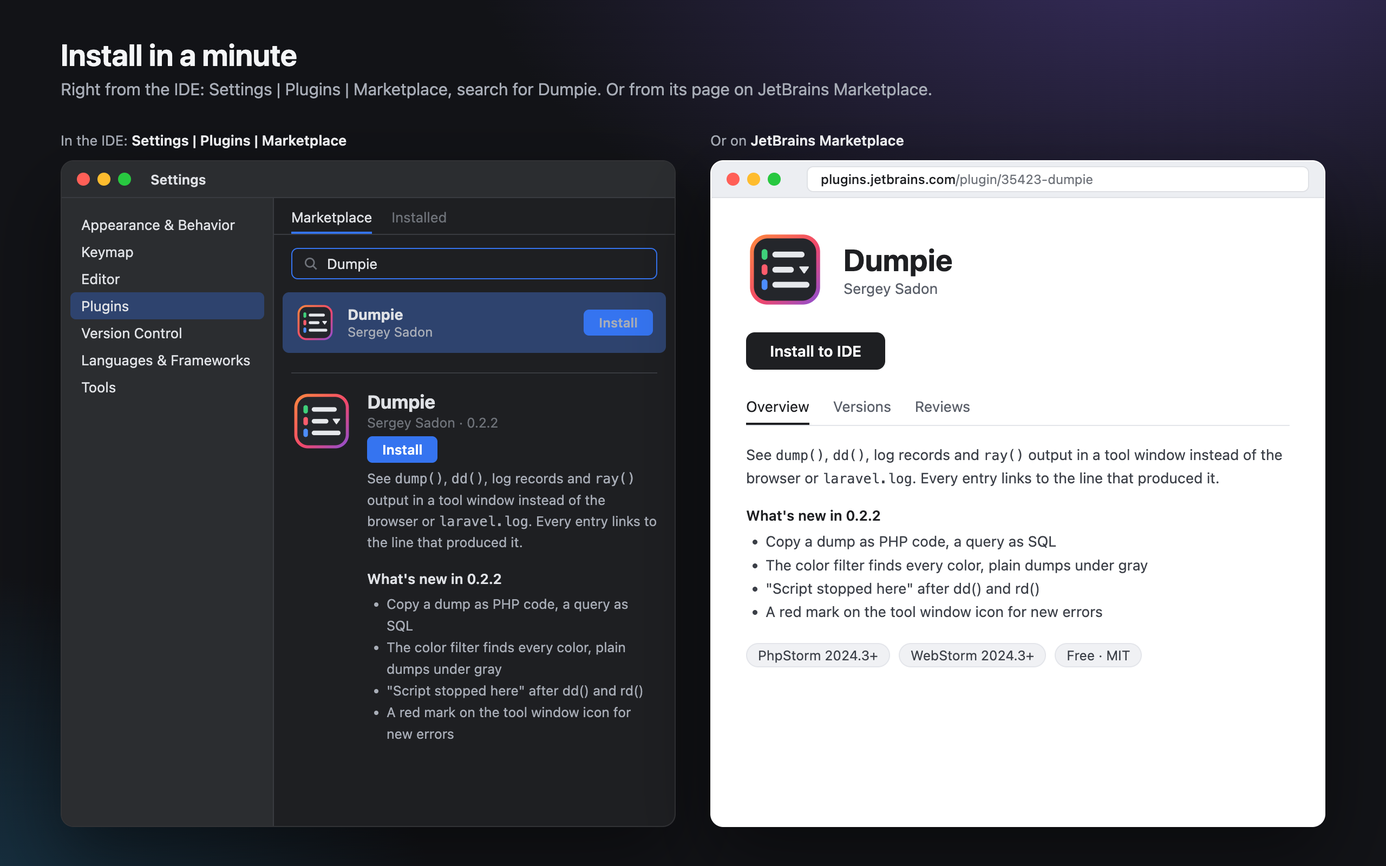
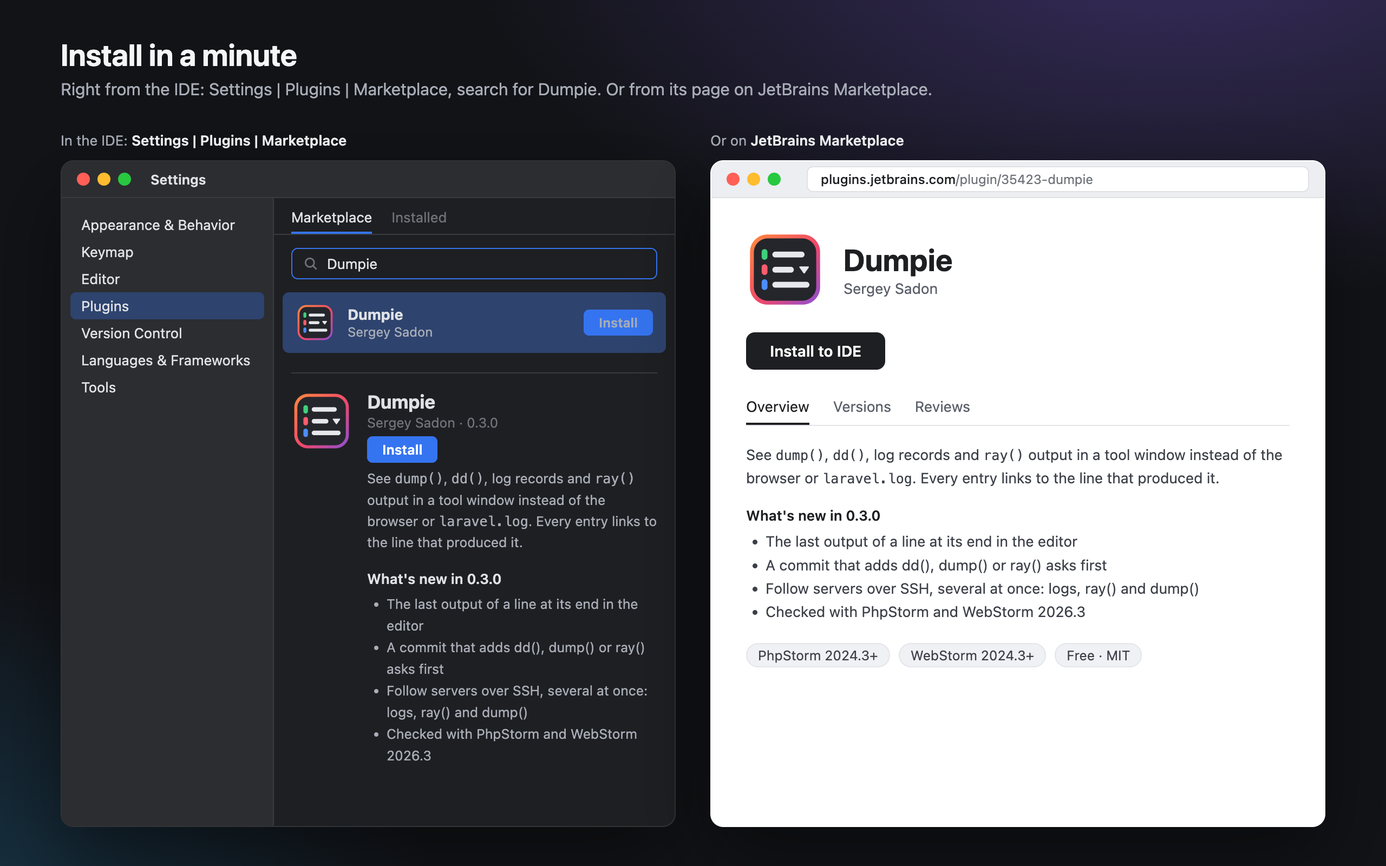
Docs for 0.3.0: servers over SSH, commit check, inline values
- New screenshots: the commit check and the server menu with its settings
- Inline values on the editor scenes, 0.3.0 news on the install scene
- README: following servers, commit check, settings reference for Servers (SSH),
  troubleshooting for SSH connections
- Site (English and Russian): server and commit check sections, new settings cards

Changed region(s): [[0.2812, 0.6875, 0.4688, 0.875], [0.5625, 0.5938, 0.875, 0.7188]]

diff --git a/docs/ru/index.html b/docs/ru/index.html
@@ -36,7 +36,7 @@
         <span class="badge">Бесплатно и open source · PhpStorm и WebStorm 2024.3+</span>
         <h1>Отладочный вывод PHP прямо в PhpStorm</h1>
         <p class="lead"><code>dump()</code>, <code>dd()</code>, записи логов, SQL-запросы, исключения и вызовы <code>ray()</code> в окне рядом
-            с кодом. У каждой записи есть ссылка на строку, которая её отправила.</p>
+            с кодом. У каждой записи есть ссылка на строку, которая её отправила. С вашей машины или с сервера по SSH.</p>
         <div class="cta">
             <a class="btn primary" href="https://plugins.jetbrains.com/plugin/35423-dumpie">Установить из JetBrains Marketplace</a>
             <a class="btn" href="https://github.com/sadonsergey/dumpie">Открыть на GitHub</a>
@@ -83,10 +83,32 @@ ray()-&gt;pause();</pre>
         <div class="feature">
             <div class="text">
                 <h3>От кода к его выводу</h3>
-                <p>Строки, которые что-то вывели, получают иконку в гаттере редактора. Наведите на неё, чтобы увидеть, что именно, или кликните,
-                    чтобы перейти к записи. И в обратную сторону: каждая запись ссылается на свой файл и строку, пути из Docker и Sail тоже.</p>
+                <p>Последнее значение, которое отправила строка, видно серым прямо в её конце, как значения в отладчике. Иконка в гаттере
+                    отмечает строку: наведите на неё, чтобы увидеть всё, что она отправила, или кликните, чтобы перейти к записи. И в обратную
+                    сторону: каждая запись ссылается на свой файл и строку, пути из Docker и Sail тоже.</p>
             </div>
-            <div class="media"><img src="../marketplace/06-gutter.png" alt="Иконка в гаттере с подсказкой и найденная запись" loading="lazy" width="2560" height="1600"></div>
+            <div class="media"><img src="../marketplace/06-gutter.png" alt="Значения в конце строк, иконка в гаттере с подсказкой и найденная запись" loading="lazy" width="2560" height="1600"></div>
+        </div>
+
+        <div class="feature flip">
+            <div class="text">
+                <h3>Логи серверов по SSH</h3>
+                <p>Добавьте серверы из SSH-конфигураций IDE с их файлами логов и включайте их в меню серверов, хоть несколько сразу. Новые строки приходят с именем
+                    сервера: записи Monolog от выбранного уровня или вообще каждая строка, включая вывод воркеров и ошибки PHP.</p>
+                <p>Вызовы <code>ray()</code> и <code>dump()</code> на сервере тоже доходят до IDE через то же SSH-соединение. Само ничего
+                    не подключается.</p>
+            </div>
+            <div class="media"><img src="../marketplace/18-server.png" alt="Вывод сервера в окне Dumpie и его настройки" loading="lazy" width="2560" height="1600"></div>
+        </div>
+
+        <div class="feature">
+            <div class="text">
+                <h3>dd() не уедет в коммит</h3>
+                <p>Коммит, который добавляет <code>dd()</code>, <code>dump()</code>, <code>ray()</code> или <code>var_dump()</code>,
+                    останавливается со ссылкой на каждый вызов. Строки, которые уже были в файле, комментарии и методы вроде
+                    <code>Yaml::dump()</code> не считаются. Так и задумано? <b>Commit Anyway</b>.</p>
+            </div>
+            <div class="media"><img src="../marketplace/17-commit.png" alt="Остановленный коммит с dd() и список отладочных вызовов" loading="lazy" width="2560" height="1600"></div>
         </div>
 
         <div class="feature flip">
@@ -191,7 +213,7 @@ ray()-&gt;pause();</pre>
             <div class="card"><h4>Текст или Markdown</h4><p>Любая запись копируется обычным текстом или блоками кода, которые сохраняют подсветку в чатах и задачах.</p></div>
             <div class="card"><h4>Как ваша IDE</h4><p>Светлая и тёмная тема, шрифты, цвета синтаксиса и формат времени берутся из IDE.</p></div>
             <div class="card"><h4>Подсказки при настройке</h4><p>Пустое окно показывает, чего не хватает проекту, и предлагает кнопку <b>Add to .env</b>.</p></div>
-            <div class="card"><h4>Только локально</h4><p>Dumpie слушает <code>127.0.0.1</code>. Ничего не уходит с вашей машины.</p></div>
+            <div class="card"><h4>Локально по умолчанию</h4><p>Dumpie слушает <code>127.0.0.1</code>, ваш вывод не уходит с машины. К серверу подключается, только когда вы нажмёте его кнопку.</p></div>
         </div>
     </div>
 </section>
@@ -255,7 +277,7 @@ ray()-&gt;pause();</pre>
 <section id="settings">
     <div class="wrap">
         <h2>Настройки</h2>
-        <p class="section-lead">Settings | Tools | Dumpie. Приёмники, отображение и SQL действуют на все проекты, последняя группа — только на открытый проект. Apply применяет изменения сразу, без перезапуска IDE.</p>
+        <p class="section-lead">Settings | Tools | Dumpie. Приёмники, отображение и SQL действуют на все проекты, группы проекта и сервера — только на открытый проект. Apply применяет изменения сразу, без перезапуска IDE.</p>
         <div class="settings">
             <div class="set-col">
                 <div class="set-card">
@@ -264,14 +286,17 @@ ray()-&gt;pause();</pre>
                     <div class="opt"><div class="opt-head"><b>Закреплённые панели проектов и экранов</b><span>Вкл.</span></div><p>Если выключить, панели уезжают вместе с лентой и освобождают место.</p></div>
                     <div class="opt"><div class="opt-head"><b>Белый фон в светлых темах</b><span>Вкл.</span></div><p>Лента в цвет редактора, а не серого фона окна.</p></div>
                     <div class="opt"><div class="opt-head"><b>Иконки в гаттере</b><span>Вкл.</span></div><p>Отмечают строки, которые что-то вывели. Наведите, чтобы посмотреть, кликните, чтобы перейти к записи.</p></div>
+                    <div class="opt"><div class="opt-head"><b>Значения в строке</b><span>Вкл.</span></div><p>Последнее значение строки в её конце, с <code>×N</code>, если она сработала N раз.</p></div>
+                    <div class="opt"><div class="opt-head"><b>Проверка коммита</b><span>Вкл.</span></div><p>Останавливает коммит, который добавляет <code>dd()</code>, <code>dump()</code>, <code>ray()</code> или <code>var_dump()</code>.</p></div>
                     <div class="opt"><div class="opt-head"><b>Метка ошибок на иконке</b><span>Вкл.</span></div><p>Исключения и логи уровня error, пока окно скрыто. При открытии окно прокручивается к последней ошибке.</p></div>
                     <div class="opt"><div class="opt-head"><b>Записи без цвета считаются серыми</b><span>Вкл.</span></div><p>Серый кружок находит и обычные дампы, info-логи и <code>ray()</code> без цвета.</p></div>
                 </div>
                 <div class="set-card">
-                    <h3>Приёмники<small>Все проекты</small></h3>
-                    <div class="opt"><div class="opt-head"><b>spatie/ray clients</b><span>23517</span></div><p>Принимает <code>ray()</code> по HTTP. Если порт занят другим приложением, выберите другой и укажите его в проекте в <code>RAY_PORT</code>.</p></div>
-                    <div class="opt"><div class="opt-head"><b>dump() / dd() server</b><span>9912</span></div><p>Принимает дампы VarDumper. Проект отправляет их с <code>VAR_DUMPER_FORMAT=server</code> и <code>VAR_DUMPER_SERVER</code>.</p></div>
-                    <p class="set-note">Оба слушают только <code>127.0.0.1</code>. Занятый порт проверяется заново каждые 5 секунд.</p>
+                    <h3>Серверы (SSH)<small>Открытый проект</small></h3>
+                    <div class="opt"><div class="opt-head"><b>Серверы</b><span>Нет</span></div><p>Прод, стейджинг, воркер: каждый сервер — это SSH-конфигурация IDE с ключом или SSH-агентом, потому что системный <code>ssh</code> не умеет вводить пароль. У каждого сервера свои настройки ниже.</p></div>
+                    <div class="opt"><div class="opt-head"><b>Файлы логов на сервере</b></div><p>Абсолютные пути, по одному в строке, можно с масками. Показываются строки, записанные после подключения.</p></div>
+                    <div class="opt"><div class="opt-head"><b>Show</b><span>Every line</span></div><p>Каждая строка или записи Monolog любого уровня, или от INFO до CRITICAL и выше.</p></div>
+                    <div class="opt"><div class="opt-head"><b>Проброс ray() и dump()</b><span>Вкл.</span></div><p>Пока есть соединение, <code>127.0.0.1:23517</code> и <code>:9912</code> на сервере ведут в эту IDE.</p></div>
                 </div>
             </div>
             <div class="set-col">
@@ -289,6 +314,12 @@ ray()-&gt;pause();</pre>
                     <div class="opt"><div class="opt-head"><b>Итоги запросов в тулбаре</b><span>Вкл.</span></div><p>Число запросов экрана и их общее время. Становится оранжевым, если есть на что посмотреть.</p></div>
                     <div class="opt"><div class="opt-head"><b>Повторяющиеся запросы</b><span>Вкл.</span></div><p>Один и тот же запрос с другими значениями 3 раза и больше на одном экране: похоже на N+1.</p></div>
                     <div class="opt"><div class="opt-head"><b>Медленные запросы</b><span>100 мс</span></div><p>Всё, что дольше, помечается <b>Slow</b> и находится красным фильтром.</p></div>
+                </div>
+                <div class="set-card">
+                    <h3>Приёмники<small>Все проекты</small></h3>
+                    <div class="opt"><div class="opt-head"><b>spatie/ray clients</b><span>23517</span></div><p>Принимает <code>ray()</code> по HTTP. Если порт занят другим приложением, выберите другой и укажите его в проекте в <code>RAY_PORT</code>.</p></div>
+                    <div class="opt"><div class="opt-head"><b>dump() / dd() server</b><span>9912</span></div><p>Принимает дампы VarDumper. Проект отправляет их с <code>VAR_DUMPER_FORMAT=server</code> и <code>VAR_DUMPER_SERVER</code>.</p></div>
+                    <p class="set-note">Оба слушают только <code>127.0.0.1</code>. Занятый порт проверяется заново каждые 5 секунд.</p>
                 </div>
             </div>
         </div>

diff --git a/docs/index.html b/docs/index.html
@@ -36,7 +36,7 @@
         <span class="badge">Free and open source · PhpStorm &amp; WebStorm 2024.3+</span>
         <h1>PHP debug output right inside PhpStorm</h1>
         <p class="lead"><code>dump()</code>, <code>dd()</code>, log records, SQL queries, exceptions and <code>ray()</code> calls in a tool window
-            next to your code, each linked to the line that produced it.</p>
+            next to your code, each linked to the line that produced it. From your machine, or from a server over SSH.</p>
         <div class="cta">
             <a class="btn primary" href="https://plugins.jetbrains.com/plugin/35423-dumpie">Install from JetBrains Marketplace</a>
             <a class="btn" href="https://github.com/sadonsergey/dumpie">View on GitHub</a>
@@ -83,10 +83,32 @@ ray()-&gt;pause();</pre>
         <div class="feature">
             <div class="text">
                 <h3>From the code to its output</h3>
-                <p>Lines that sent output get an icon in the editor gutter. Hover it to see what they sent, click it to jump to the entry.
-                    And the other way round: every entry links to its file and line, Docker and Sail paths included.</p>
+                <p>The last value a line sent shows up at its end, in gray, like the debugger's inline values. An icon in the gutter marks
+                    the line: hover it to see everything it sent, click it to jump to the entry. And the other way round: every entry links
+                    to its file and line, Docker and Sail paths included.</p>
             </div>
-            <div class="media"><img src="marketplace/06-gutter.png" alt="Gutter icon with a tooltip and the revealed entry" loading="lazy" width="2560" height="1600"></div>
+            <div class="media"><img src="marketplace/06-gutter.png" alt="Inline values, a gutter icon with a tooltip and the revealed entry" loading="lazy" width="2560" height="1600"></div>
+        </div>
+
+        <div class="feature flip">
+            <div class="text">
+                <h3>Follow your servers over SSH</h3>
+                <p>Add servers from the IDE's SSH configurations with their log files, then switch them on from the server menu, several at once. New log lines arrive
+                    tagged with the server name: Monolog records from the level you choose, or every line, worker output and PHP errors included.</p>
+                <p>Calls of <code>ray()</code> and <code>dump()</code> on a server reach the IDE through the same SSH connection. Nothing
+                    connects on its own.</p>
+            </div>
+            <div class="media"><img src="marketplace/18-server.png" alt="The server's output in the tool window, and its settings" loading="lazy" width="2560" height="1600"></div>
+        </div>
+
+        <div class="feature">
+            <div class="text">
+                <h3>No dd() slips into a commit</h3>
+                <p>A commit that adds <code>dd()</code>, <code>dump()</code>, <code>ray()</code> or <code>var_dump()</code> stops and links
+                    to every call. Lines that were already there, comments and methods like <code>Yaml::dump()</code> do not count.
+                    Meant to keep it? <b>Commit Anyway</b>.</p>
+            </div>
+            <div class="media"><img src="marketplace/17-commit.png" alt="A commit with dd() stopped, and the list of debug calls" loading="lazy" width="2560" height="1600"></div>
         </div>
 
         <div class="feature flip">
@@ -191,7 +213,7 @@ ray()-&gt;pause();</pre>
             <div class="card"><h4>Copy text or Markdown</h4><p>Any entry goes to the clipboard as plain text or as fenced code blocks that keep highlighting in chats and issues.</p></div>
             <div class="card"><h4>Follows your IDE</h4><p>Light and dark themes, fonts, syntax colors and the time format come from the IDE.</p></div>
             <div class="card"><h4>Guided setup</h4><p>An empty tool window shows what a project is missing, with an <b>Add to .env</b> button.</p></div>
-            <div class="card"><h4>Local only</h4><p>Dumpie listens on <code>127.0.0.1</code>. Nothing leaves your machine.</p></div>
+            <div class="card"><h4>Local by default</h4><p>Dumpie listens on <code>127.0.0.1</code>, your output stays on your machine. A server is followed only when you press its button.</p></div>
         </div>
     </div>
 </section>
@@ -255,7 +277,7 @@ ray()-&gt;pause();</pre>
 <section id="settings">
     <div class="wrap">
         <h2>Settings</h2>
-        <p class="section-lead">Settings | Tools | Dumpie. Receivers, display and SQL options apply to every project, the last group to the open project only. Apply takes effect at once, no restart needed.</p>
+        <p class="section-lead">Settings | Tools | Dumpie. Receivers, display and SQL options apply to every project, the project and server groups to the open project only. Apply takes effect at once, no restart needed.</p>
         <div class="settings">
             <div class="set-col">
                 <div class="set-card">
@@ -264,14 +286,17 @@ ray()-&gt;pause();</pre>
                     <div class="opt"><div class="opt-head"><b>Pinned project and screen bars</b><span>On</span></div><p>Off lets the bars scroll away with the feed for more room.</p></div>
                     <div class="opt"><div class="opt-head"><b>White background in light themes</b><span>On</span></div><p>The feed matches the editor instead of the tool window gray.</p></div>
                     <div class="opt"><div class="opt-head"><b>Gutter icons</b><span>On</span></div><p>Marks the lines that sent output. Hover to preview, click to jump to the entry.</p></div>
+                    <div class="opt"><div class="opt-head"><b>Inline values</b><span>On</span></div><p>The last value of a line at its end, with <code>×N</code> when it ran N times.</p></div>
+                    <div class="opt"><div class="opt-head"><b>Commit check</b><span>On</span></div><p>Stops a commit that adds <code>dd()</code>, <code>dump()</code>, <code>ray()</code> or <code>var_dump()</code>.</p></div>
                     <div class="opt"><div class="opt-head"><b>Error mark on the icon</b><span>On</span></div><p>Exceptions and error logs while the window is hidden. Opening it scrolls to the last error.</p></div>
                     <div class="opt"><div class="opt-head"><b>Entries without a color are gray</b><span>On</span></div><p>The gray dot also finds plain dumps, info logs and <code>ray()</code> without a color.</p></div>
                 </div>
                 <div class="set-card">
-                    <h3>Receivers<small>All projects</small></h3>
-                    <div class="opt"><div class="opt-head"><b>spatie/ray clients</b><span>23517</span></div><p>Receives <code>ray()</code> over HTTP. If another app holds the port, pick another one and set <code>RAY_PORT</code> in the project.</p></div>
-                    <div class="opt"><div class="opt-head"><b>dump() / dd() server</b><span>9912</span></div><p>Receives VarDumper dumps. The project sends them with <code>VAR_DUMPER_FORMAT=server</code> and <code>VAR_DUMPER_SERVER</code>.</p></div>
-                    <p class="set-note">Both listen on <code>127.0.0.1</code> only. A busy port is retried every 5 seconds.</p>
+                    <h3>Servers (SSH)<small>Open project</small></h3>
+                    <div class="opt"><div class="opt-head"><b>Servers</b><span>None</span></div><p>Production, staging, a worker: each is one of the IDE's SSH configurations with a key pair or the SSH agent, since the system <code>ssh</code> cannot type a password. Every server has the options below.</p></div>
+                    <div class="opt"><div class="opt-head"><b>Log files on the server</b></div><p>Absolute paths, one per line, wildcards allowed. Lines written after connecting.</p></div>
+                    <div class="opt"><div class="opt-head"><b>Show</b><span>Every line</span></div><p>Every line, or Monolog records of any level, or from INFO to CRITICAL up.</p></div>
+                    <div class="opt"><div class="opt-head"><b>Forward ray() and dump()</b><span>On</span></div><p>The server's <code>127.0.0.1:23517</code> and <code>:9912</code> lead to this IDE while connected.</p></div>
                 </div>
             </div>
             <div class="set-col">
@@ -289,6 +314,12 @@ ray()-&gt;pause();</pre>
                     <div class="opt"><div class="opt-head"><b>Query totals in the toolbar</b><span>On</span></div><p>Count and total time of the screen, orange when something needs a look.</p></div>
                     <div class="opt"><div class="opt-head"><b>Repeated queries</b><span>On</span></div><p>The same statement with other values 3 or more times on one screen: a likely N+1.</p></div>
                     <div class="opt"><div class="opt-head"><b>Slow queries</b><span>100 ms</span></div><p>Anything slower is marked <b>Slow</b> and found by the red filter.</p></div>
+                </div>
+                <div class="set-card">
+                    <h3>Receivers<small>All projects</small></h3>
+                    <div class="opt"><div class="opt-head"><b>spatie/ray clients</b><span>23517</span></div><p>Receives <code>ray()</code> over HTTP. If another app holds the port, pick another one and set <code>RAY_PORT</code> in the project.</p></div>
+                    <div class="opt"><div class="opt-head"><b>dump() / dd() server</b><span>9912</span></div><p>Receives VarDumper dumps. The project sends them with <code>VAR_DUMPER_FORMAT=server</code> and <code>VAR_DUMPER_SERVER</code>.</p></div>
+                    <p class="set-note">Both listen on <code>127.0.0.1</code> only. A busy port is retried every 5 seconds.</p>
                 </div>
             </div>
         </div>

diff --git a/README.md b/README.md
@@ -58,6 +58,7 @@ its own session and delivers it to the window that has the project open.
 - [Features](#features)
 - [Installation](#installation)
 - [Quick start](#quick-start)
+- [Following a server](#following-a-server)
 - [Using the tool window](#using-the-tool-window)
 - [Settings](#settings)
 - [Troubleshooting](#troubleshooting)
@@ -76,7 +77,13 @@ its own session and delivers it to the window that has the project open.
 - **Works with `spatie/ray`.** Projects that already use `spatie/ray` or `spatie/laravel-ray` work as they are:
   tables, queries, events, jobs, mails, models, exceptions, measurements, `pause()`, colors, labels and screens.
 - **Jump to code.** Every entry links to its file and line. Docker paths such as `/var/www/html/app/...` are matched
-  to your project automatically. And back: an icon in the editor gutter marks the lines that sent output.
+  to your project automatically. And back: an icon in the editor gutter marks the lines that sent output, and the
+  last value a line sent is shown at its end, like the debugger's inline values.
+- **Follow your servers.** Add servers from the IDE's SSH configurations with the log files on them, then switch them
+  on from the server menu, several at once: new log lines arrive tagged with the server name. `ray()` and `dump()` on
+  a server can reach the IDE through the same SSH connection. See [Following a server](#following-a-server).
+- **No debug calls in commits.** A commit that adds `dd()`, `dump()`, `ray()` or `var_dump()` stops with a link to
+  every call; **Commit Anyway** is one click away.
 - **SQL insights.** Repeated queries (possible N+1) and slow queries are marked; the toolbar shows how many queries a
   screen ran and their total time.
 - **One session per project, several IDEs at once.** See [above](#many-projects-many-ides-nothing-mixes-up).
@@ -86,12 +93,13 @@ its own session and delivers it to the window that has the project open.
   collapse entries, copy any entry as a Markdown code block or open it in an editor tab.
 - **Nothing lost.** Whatever Clear removes goes to an archive and can be restored to its project.
 - **Follows the IDE.** Light and dark themes, UI and editor fonts come from your IDE settings.
-- **Local only.** Dumpie listens on `127.0.0.1`; nothing leaves your machine.
+- **Local by default.** Dumpie listens on `127.0.0.1`; your output never leaves your machine. It connects to a
+  server only when you switch it on in the server menu, with your own SSH configuration.
 
 ## Installation
 
 Requires **PhpStorm 2024.3 or newer**. Dumpie also installs in **WebStorm 2024.3 or newer**: every build is checked
-with the JetBrains Plugin Verifier against PhpStorm and WebStorm 2024.3–2026.2.
+with the JetBrains Plugin Verifier against PhpStorm and WebStorm 2024.3–2026.3.
 
 1. Open **Settings | Plugins | Marketplace**, search for **Dumpie** and press **Install**, or install it from its
    [JetBrains Marketplace page](https://plugins.jetbrains.com/plugin/35423-dumpie).
@@ -167,6 +175,49 @@ RAY_HOST=host.docker.internal   # spatie/laravel-ray, read by the published conf
 
 File links work without extra setup: a container path is matched to the project by its longest existing suffix.
 
+## Following a server
+
+Watch what a staging or production server writes, without opening a terminal: its log files, and optionally the
+`ray()` and `dump()` calls it makes.
+
+![The server menu, a server's output in the tool window and the Servers settings](docs/marketplace/18-server.png)
+
+1. **An SSH configuration.** Dumpie uses the configurations of **Settings | Tools | SSH Configurations**. It connects
+   with the system `ssh` client and cannot type a password, so the configuration needs **Key pair** or **OpenSSH
+   config and authentication agent**. A key with a passphrase has to be in the agent (`ssh-add`). Host aliases from
+   `~/.ssh/config`, `ProxyJump` included, work as they do in a terminal.
+2. **The servers of the project.** In **Settings | Tools | Dumpie**, group **Servers (SSH)**, press **+**, choose the
+   configuration and list the log files on the server: absolute paths, one per line, wildcards allowed
+   (`/var/www/app/storage/logs/*.log`). A project can have several servers, such as production and staging, or a web
+   and a worker server, each with its own files.
+3. **Connect.** The server button in the Dumpie toolbar opens the server menu: click a server to connect, click it
+   again to disconnect. Several servers can be followed at once. The button's dot blinks while connecting and turns
+   green when a server is followed. Dumpie never connects on its own, and the connections end with the IDE.
+
+Every entry from the server carries its name. **Show** decides what arrives:
+
+- **Every line** (default): log records and everything else the files contain, such as queue worker output and PHP
+  errors. A PHP stack trace stays in one entry.
+- **Log records of any level**, or **INFO / NOTICE / WARNING / ERROR / CRITICAL and above**: only Monolog records
+  (`[2026-11-10 12:00:00] production.ERROR: ...`) of that level and higher, each with its stack trace.
+
+Only lines written after connecting are shown. Wildcards are expanded when the connection starts: a file created
+later, such as tomorrow's daily log, is followed after you reconnect.
+
+**`ray()` and `dump()` on the server.** With **Forward ray() and dump() calls on the server to this IDE** on, the
+server's ports `127.0.0.1:23517` and `127.0.0.1:9912` lead to this IDE while it is connected (SSH remote port
+forwarding). Nothing else on the server's network can reach them. The server then sends as it would on your machine:
+
+```dotenv
+RAY_HOST=127.0.0.1   # spatie/laravel-ray, read by the published config/ray.php
+VAR_DUMPER_FORMAT=server
+VAR_DUMPER_SERVER=127.0.0.1:9912
+```
+
+`spatie/ray` is usually a dev dependency, so it has to be installed and enabled on the server for this. Only one
+connection at a time can take a port on a server: when another IDE already forwards it, Dumpie says so and keeps
+following the logs.
+
 ## Using the tool window
 
 ![Exception with code snippet, and the feed filtered to errors and warnings](docs/marketplace/04-errors.png)
@@ -198,10 +249,14 @@ The panel follows the IDE theme and fonts:
   **Restore** puts it back into the project it came from.
 - **Gutter icons**: lines that produced output get a Dumpie icon in the editor gutter. Hover it to see what the line
   sent, click it to jump to the entry.
+- **Inline values**: the end of such a line shows the last value it sent in gray, `×3` when it sent three times. The
+  values of one `dd($a, $b)` call are shown together, separated by commas.
+- **Servers**: the server button appears once the project has a server in the settings and opens the menu of its
+  servers, see [Following a server](#following-a-server).
 - **SQL**: queries that ran 3 or more times with different values are marked **Repeated** (possible N+1), queries over
   the threshold (100 ms by default) are marked **Slow**.
 
-![Gutter icons: hover shows what a line sent, a click jumps to the entry](docs/marketplace/06-gutter.png)
+![Inline values and gutter icons: hover shows what a line sent, a click jumps to the entry](docs/marketplace/06-gutter.png)
 
 ![SQL insights: repeated and slow queries](docs/marketplace/05-sql.png)
 
@@ -216,6 +271,19 @@ The panel follows the IDE theme and fonts:
 ![A red mark on the tool window icon, and the error in view after opening it](docs/marketplace/14-badge.png)
 
 ![The tool window at three widths](docs/marketplace/15-narrow.png)
+
+### Commit check
+
+![A commit with dd() stops with a link to the call](docs/marketplace/17-commit.png)
+
+Before a commit, Dumpie looks at the lines the commit adds and stops it when they call `dd()`, `ddd()`, `dump()`,
+`ray()`, `rd()`, `var_dump()`, or `->dump()` / `->dd()` (collections, query builders). The commit view shows the first
+call; **Show** opens it, **Show all** lists every one, **Commit Anyway** commits as it is.
+
+- Checked: PHP, Blade, Twig and JavaScript / TypeScript / Vue files. `vendor` and `node_modules` are skipped.
+- Not counted: lines that were already in the file, comments, methods such as `$dumper->dump($data)` or
+  `Yaml::dump()`, and the definition of your own `function dump()`.
+- Turn it off with **Warn before committing dump(), dd() and ray() calls** in the settings.
 
 ### Keyboard shortcuts
 
@@ -235,12 +303,12 @@ They work while the Dumpie tool window has focus, so ⌘K still commits in the e
 
 ## Settings
 
-Open **Settings | Tools | Dumpie**. The page has four groups:
+Open **Settings | Tools | Dumpie**. The page has five groups:
 
 - **Receivers**, **Display** and **SQL queries** apply to every project in the IDE. They are stored in `dumpie.xml`
   in the IDE configuration directory.
-- **This project** applies to the open project only. It is stored in `.idea/workspace.xml`, so it is not shared
-  through version control.
+- **This project** and **Servers (SSH)** apply to the open project only. They are stored in `.idea/workspace.xml`, so
+  they are not shared through version control.
 
 **Apply** takes effect right away: the receivers and the log watcher restart and open tool windows pick up the new
 options. No IDE restart is needed.
@@ -264,6 +332,8 @@ forwards output to the others.
 | **Keep the project and screen bars visible while scrolling** | On | The project chips and screen tabs stay under the toolbar. Off: they scroll away with the feed and leave more room for entries. |
 | **Use the editor background (white) in light themes** | On | In light themes the feed uses the editor's background. Off: the tool window background. Dark themes are not affected. |
 | **Show an icon in the editor gutter on lines that produced output** | On | Marks lines that sent output with an icon. Hover it to see what the line sent, click it to jump to the entry. Turning it off also removes the icons already shown. |
+| **Show the last output at the end of its line in the editor** | On | Shows the last value a line sent after its end, in gray, with `×N` when the line sent N times. Up to 80 characters. |
+| **Warn before committing dump(), dd() and ray() calls** | On | Stops a commit whose added lines call debug helpers, see [Commit check](#commit-check). |
 | **Mark the tool window icon when errors arrive while it is hidden** | On | Exceptions and log records of level error, critical, alert or emergency put a red mark on the tool window icon; its tooltip counts them. Showing the tool window clears the mark and scrolls to the last error. |
 | **Treat entries without a color as gray in the color filter** | On | The gray dot also finds entries that have no color: plain `dump()` output, info log records, `ray()` calls without a color. Off: gray finds only `ray()->gray()` and debug log records. |
 
@@ -292,6 +362,22 @@ directories. After that your changes are kept; **Detect Again** repeats the insp
 Log records are colored by level: emergency, alert, critical and error in red, warning in orange, notice in blue, debug
 in gray. Info records have no color.
 
+### Servers (SSH)
+
+The servers this project's tool window can follow, see [Following a server](#following-a-server). The group is shown
+when the IDE has SSH support, which PhpStorm and WebStorm bundle. **+**, **−** and **Edit** (or a double click) manage
+the list; each server has these settings:
+
+| Setting | Default | What it does |
+|---|---|---|
+| **SSH configuration** | The first one not in the list | One of **Settings \| Tools \| SSH Configurations**, each can be in the list once. It needs **Key pair** or **OpenSSH config and authentication agent**: Dumpie connects with the system `ssh` client, which cannot ask for a password. |
+| **Log files on the server** | Empty | Absolute paths, one per line, wildcards allowed. Only lines written after connecting are shown. |
+| **Show** | Every line | **Every line** also shows what is not a log record: worker output, PHP errors, other formats. The other choices show Monolog records only: of any level, or from INFO, NOTICE, WARNING, ERROR or CRITICAL up. |
+| **Forward ray() and dump() calls on the server to this IDE** | On | While connected, the server's `127.0.0.1` ports of the receivers (`23517` and `9912` by default) lead to this IDE. |
+
+Changes apply when you press **Apply**: a connected server whose settings changed reconnects, a removed one
+disconnects, the others keep running.
+
 ### Remapping the shortcuts
 
 The shortcuts of the tool window are actions in **Tools | Dumpie** and can be remapped in **Settings | Keymap**
@@ -309,6 +395,17 @@ The shortcuts of the tool window are actions in **Tools | Dumpie** and can be re
   configuration and, for Docker, `VAR_DUMPER_SERVER`.
 - **The tool window stays empty**: make sure a project is open in the IDE (receivers start with the first project)
   and that the source is enabled under **This project**.
+- **"… uses a password"** when connecting to a server: switch its SSH configuration to **Key pair** or **OpenSSH
+  config and authentication agent**.
+- **"Disconnected from …: Permission denied"**: the system `ssh` could not log in without a password. Check that
+  `ssh user@host` works in a terminal without a prompt; add a key with a passphrase to the agent with `ssh-add`.
+- **"Port 23517 is taken on …"**: another connection already forwards that port, often another IDE following the
+  same server. The logs keep coming; `ray()` and `dump()` on the server do not reach this IDE.
+- **"Log file not found on …"**: check the path in **Servers (SSH)**. The other files are still followed.
+- **A new daily log does not show up**: wildcards are expanded when the connection starts. Disconnect the server in
+  the server menu and connect it again.
+- **"Unknown server" in the server menu**: its SSH configuration was deleted. Edit the server in **Servers (SSH)** and
+  choose another configuration, or remove it.
 
 Still stuck? [Open an issue](https://github.com/sadonsergey/dumpie/issues) and describe your setup.
 
